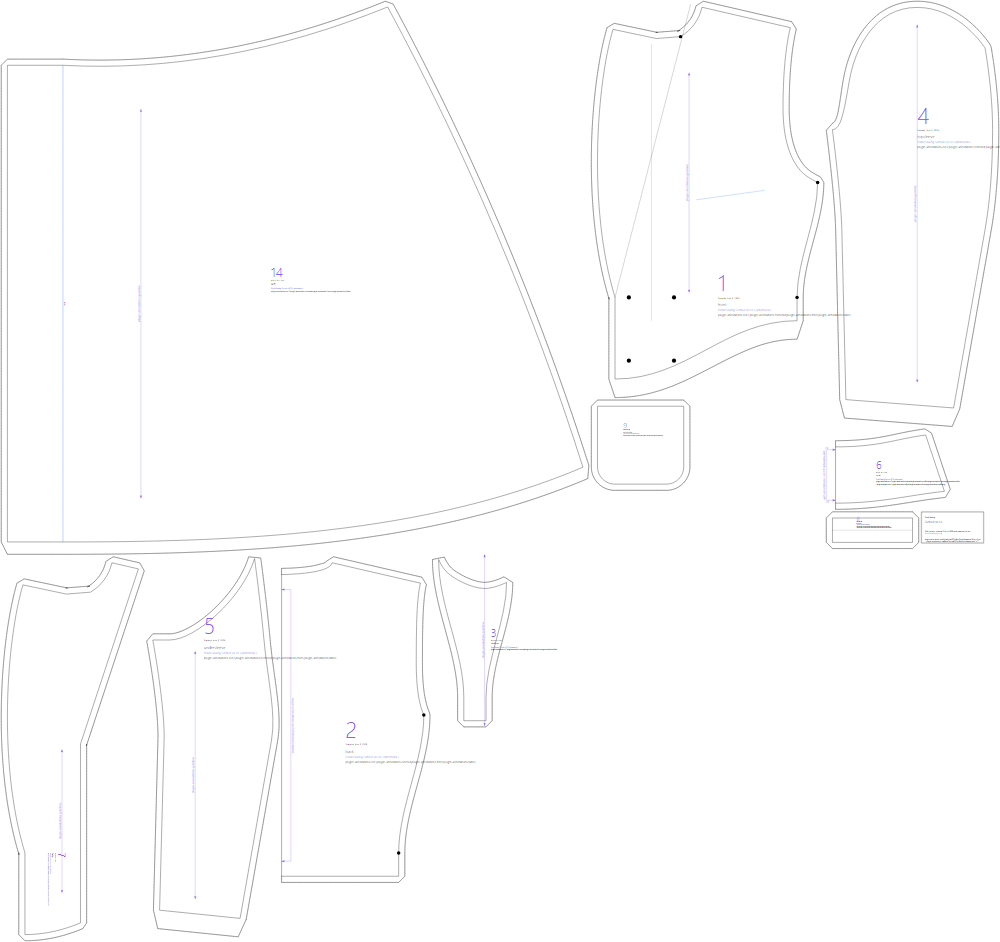
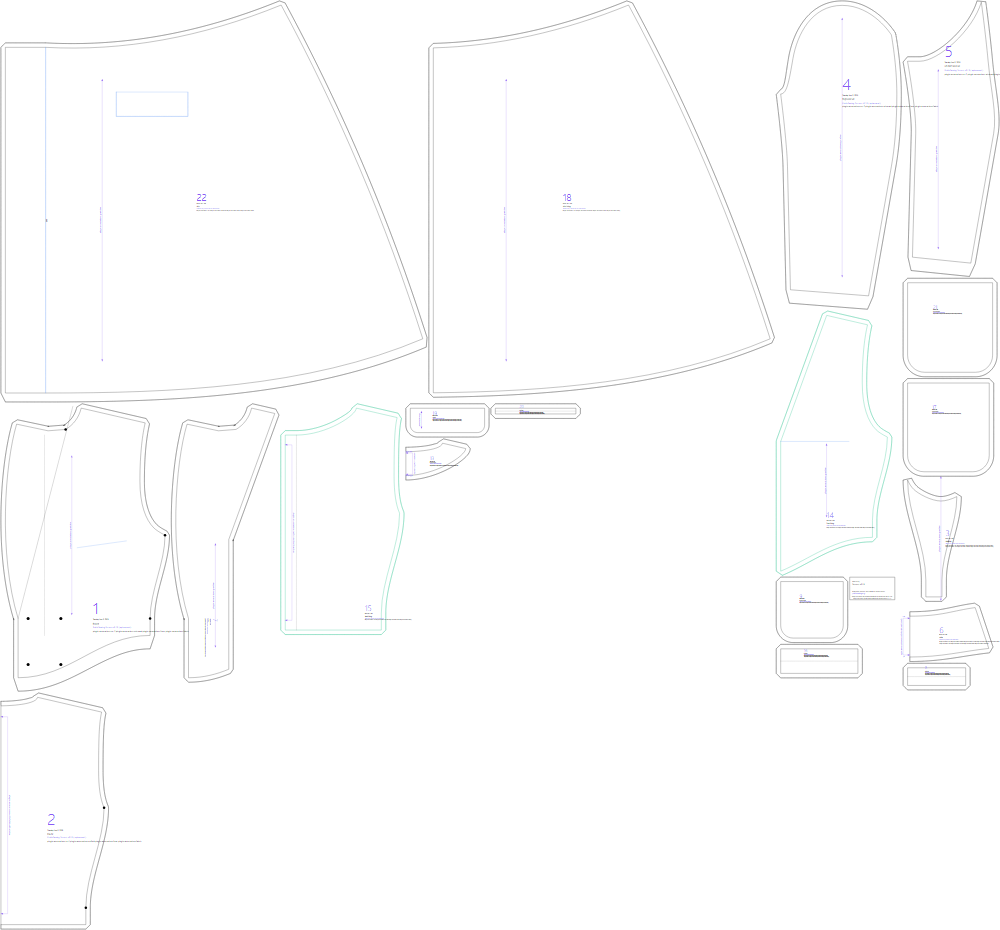
Dolman cape's back darts; pockets and a lining for the surtout
The dolman's back takes its extra length in a shoulder dart and small darts on the arm curve, as
Pivnick's Figures 4 and 6, each kept small, in place of one large dart. The surtout gains set-in flap
pockets on the skirt and a lining, the skirt's cut from the facing's inner edge.

diff --git a/designs/SPEC.md b/designs/SPEC.md
@@ -41,7 +41,7 @@ waistband or fly shield; its size goes to `trousers.strips.<piece>`),
 `polygon` (a straight-edged piece from its corners: `points` a list of [x, y] expressions, `allowance` per edge in seam allowances, `fold` the index of the edge on the fold, `notches`, `buttons`, `buttonholes`, `lines` (marks), `let` values first, `cut`, `material`, `label`; its edges' lengths go to `polygon.<piece>`),
 `suitPiece` (a flat-cut suit's `piece`: `sleeve`, `armGusset`, `crotchGusset`, `facing`, `band`, `breastPocket`, `lowerPocket`, sized by `suitBody`),
 `gore` (a gored skirt's gore from `skirtLayout`: `index` 0 is the front panel, on the fold; a gore past the design's count is left out; `zip` an expression, the CB zip's length, notched on the last gore; `pleat: { style, hip, hem, if }`, a pleat underlay below the seat line, `hip`/`hem` mm wide, on the gore's CB edge (`side`) or both edges (`box`, never the CF fold), the gore's edge marked as the fold),
-`body3Skirt` (a skirt in one piece on a body3 body cut off above the seat line, which `lengthBelowWaist` does: `length`, `lean`, `round`, `facing`; store `blouse.skirt`),
+`body3Skirt` (a skirt in one piece on a body3 body cut off above the seat line, which `lengthBelowWaist` does: `length`, `lean`, `round`, `facing`; `pocketLen`, `pocketBelow`, `pocketAt`, `pocketFlap`, a set-in flap pocket for `flap`, `welt` and `weltBag` pieces; `lining: true`, the same from the facing's inner edge; store `blouse.skirt`),
 `circular` (a circular skirt's `which: front` or `back` from `circularLayout`; `zip` an expression, notched on the back's CB; store `skirt.seams.<which>`),
 `frontLining` and `backLining` (a Brian coat's lining, `from` the front or the back; the back
 takes `width:`, its back-neck facing's, and `pleat:`; `sleeve` takes `lining:` too, and
@@ -85,7 +85,7 @@ type's `if:` is an expression over options; when it is false the piece is left o
 | `boxLayout` | A box body on the same bases (`jacketBase` with `style: box`): back and front, side seams flared from the armholes, the bust dart pivoted into the front neck, lap, lapel, gorge. Optional: `patch: { <id>: { x, y, w, h, shape, topHem, flap } }`, patch pockets from CF and the waist (to `coat.pockets`, for the `pocket` and `flap` pieces), kept clear of the armhole, side seam and hem; `rows`, as `jacketLayout`'s. | `lib/jacket.mjs` |
 | `jacketLayout`'s `kimono` | `{ length, hem, depth, angleBack, angleFront }`: the sleeve cut in one with the side back and side front, no armhole; the hem shared so the underarm seams match. Store: `jacket.kimono`. Drop the two-part sleeve pieces. | `lib/jacket.mjs` |
 | `capeBase`, `capeLayout` | A cape (`which`; `length`, `drop`, `gap`, `pivotLess`, `seamDrop`, `flare`, `lap`, `facing`): the block's neck and shoulder laid out as a quarter circle. Store: `cape.layout`, `cape.seams`, `coat.back.neck`, `coat.front.neck`. With the `cape` piece type (`which: front`, `back` or `whole`; `count`, `spacing` its buttons). | `lib/cape.mjs` |
-| `dolmanLayout` | A dolman cape on `jacketBase`'s raw front and back (`seat`, `hipDepth`, `length`, `arm`, `hip`, `lap`, `facing`, `dartLen`), for the `cape` pieces. | `lib/cape.mjs` |
+| `dolmanLayout` | A dolman cape on `jacketBase`'s raw front and back (`seat`, `hipDepth`, `length`, `arm`, `hip`, `lap`, `facing`, `shoulderMax`, `curveMax`, `dartLen`), for the `cape` pieces. | `lib/cape.mjs` |
 | `gatheredLeg` | A full leg gathered into a band, elastic waist, on Titan; with `hem` (a depth), no band: a plain hem turned up at `hemY - hem`. | `lib/trousers.mjs` |
 | `trouserLeg` | A tailored leg on Titan (`which: back` or `front`, `fitKnee` on): a waist dart (`dart`, `dartAt`, `dartLength`, `dartFrom: centre` to take it from Titan's CB shaping), the hem narrowed (`hemWidth`) and curved (`hemSag`), or cuff bottoms (`turnUp`, the depth), a fly (`fly`, `flyLength`), a side pocket (`pocketTop`, `pocketLength`, `pocketWidth`, `pocketDepth`), a jetted back pocket (`backPocket`, `backPocketBelow`, `backPocketWelt`); `matchOutseam` trues its outseam to the other leg's. Breeches (with `cuffBelow`): a thigh flare at the outseam (`thighFlare`, `thighAt`), fitted below the knee to `calfW` and `cuffW` round (`calfBelow`, `cuffBelow` under the knee; `share`, this piece's part), an opening at the lower outseam (`openingBelow`, `buttons`, `buttonInset`), moved toward the front from the knee down by `openingShift` (both legs) so it runs down the shin. `pleats`, `pleatSpacing` (front): the dart laid as pleats at a straight waist (with `dartLength: 0`). `straightOutseam`: the outseam a straight line out past the seat, for a `legInOne` leg; the paths go to `trousers.paths.<which>`. Store: `trousers.back` / `trousers.front`, `trousers.pockets`. | `lib/trousers.mjs` |
 | `skirtLayout` | A gored skirt on Sarah's base (`gores`, odd; three is Mitchell's two-piece skirt, with `panelShare` the front's share of the half hip; `panelNarrowing`, `cbShaping`, `panelShaping` for five gores, less with more; `flare`; `frontDrop`): the gores laid on the seat line, the waist shaping as darts on the seams, the same flare at every seam edge. Store: `skirt.gores`, `skirt.count`, `skirt.waist`; the `gore` pieces add `skirt.seams`. | `lib/skirt.mjs` |

diff --git a/designs/README.md b/designs/README.md
@@ -60,13 +60,13 @@ without declaring them, so they are listed in our package.json.
 | `womens-peacoat/` | Women's peacoat: the tailored jacket double-breasted (a 4" lap, two rows of three buttons), hip length, Merz's storm collar (buttoned to the neck; notched or peaked lapels as options), hip flap pockets, lined, Merz 1911 Diagram XXI. [BRIEF.md](womens-peacoat/BRIEF.md) | draft (not sewn) | not draped |
 | `field-jacket/` | Women's field jacket: the box coat at hip length, small lapels, five buttons on CF, four flapped patch pockets, Merz 1911 Diagram XX. [BRIEF.md](field-jacket/BRIEF.md) | draft (not sewn) | not draped |
 | `overcoat/` | Single-breasted overcoat to below the knee: the peacoat's notched lapel, collar, vent, pockets and lining with a single-breasted front, drafted two sizes up, Simons 1916 pp. 6–7. [BRIEF.md](overcoat/BRIEF.md) | draft (not sewn) | not draped |
-| `surtout/` | Surtout: the suit jacket's three-piece body cut off at a high waist, double-breasted, on one flared skirt, Simons 1916 pp. 38-39. [BRIEF.md](surtout/BRIEF.md) | draft (not sewn) | not draped |
+| `surtout/` | Surtout: the suit jacket's three-piece body cut off at a high waist, double-breasted, on one flared skirt with flap pockets, lined, Simons 1916 pp. 38-39. [BRIEF.md](surtout/BRIEF.md) | draft (not sewn) | not draped |
 | `box-overcoat/` | Loose, straight single-breasted overcoat flared to a 66" sweep: the overcoat three sizes up, Simons 1916 pp. 14–15. [BRIEF.md](box-overcoat/BRIEF.md) | draft (not sewn) | not draped |
 | `ulster/` | Long double-breasted ulster-collar overcoat: the peacoat at 50" and four sizes up, Simons 1916 pp. 28–30. [BRIEF.md](ulster/BRIEF.md) | draft (not sewn) | not draped |
 | `balmacaan/` | Loose raglan-sleeved overcoat: the overcoat four sizes up with the mackinaw's two-piece raglan sleeves and military collar, buttoned to the throat, flared to a 66" sweep, Simons 1916 pp. 32–35. [BRIEF.md](balmacaan/BRIEF.md) | draft (not sewn) | not draped |
 | `mantle/` | Loose overcoat: the balmacaan two sizes up with the armhole 3" lower, a convertible collar, three buttons, flapped patch pockets, no vent, Simons 1916 pp. 36–37 (the back cut in one with the sleeve isn't built). [BRIEF.md](mantle/BRIEF.md) | draft (not sewn) | not draped |
 | `cape/` | Cape (any size): a quarter circle on the shoulders, two pieces with a flared seam or one with a shoulder dart, a collar and a folded-back facing, Mitchell 1921 pp. 58-59. [BRIEF.md](cape/BRIEF.md) | draft (not sewn) | not draped |
-| `dolman-cape/` | Dolman cape: Breanna's body with the shoulder run out and curved over the arm into a straight side seam, a bust dart, a dart on the arm curve, Pivnick 1949 ch. XIX. [BRIEF.md](dolman-cape/BRIEF.md) | draft (not sewn) | not draped |
+| `dolman-cape/` | Dolman cape: Breanna's body with the shoulder run out and curved over the arm into a straight side seam, a bust dart, small darts on the back, Pivnick 1949 ch. XIX. [BRIEF.md](dolman-cape/BRIEF.md) | draft (not sewn) | not draped |
 | `peacoat/` | Hip-length double-breasted coat: the mackinaw with Simons' D.B. overcoat stand, three-button rows, notched lapel and deep ulster collar, slanted hand-warmer welt pockets, back vent and lining, no belt, on Brian, Simons 1916. [BRIEF.md](peacoat/BRIEF.md) | draft (not sewn) |
 | `womens-box-coat/` | Women's loose box coat: straight body flared from the arms, shaped CB seam, neck dart, notched lapel, collar, buttons near the lapped edge, set-in flap pockets (hip and ticket), two-piece sleeves, on Breanna, Mitchell 1921. [BRIEF.md](womens-box-coat/BRIEF.md) | draft (not sewn) | OK, 2026-10-26 |
 | `girls-coat/` | Girls' coat: the box coat at Sheifer's proportions, to below the knee, a 2½" lap, four buttons, hip flap pockets 3" below the waist, for any size, Sheifer 1908. [BRIEF.md](girls-coat/BRIEF.md) | draft (not sewn) | not draped |

diff --git a/designs/surtout/BRIEF.md b/designs/surtout/BRIEF.md
@@ -39,19 +39,23 @@ sleeve. Added for this coat: a body cut off above the seat line, buttons in two 
 - **The ¼ in Vee at 20 isn't drafted.**
 - **The CF hem** is set from the back seam and the fall, a little shorter at the front than his: compare in a muslin.
 - **Skirt facing:** cut on and folded back (ours). The body's is the suit jacket's.
-- **No pockets in the skirt, no lining, no vent, no sleeve vent**: the book gives none, though a real coat would want pockets and a lining.
+- **Skirt pockets and the lining are ours.** The book draws neither, but a real coat wants both. A set-in flap pocket each side of the skirt: `skirtPocketWidth` 16% of the chest (6 in of 38), its
+  level mouth `skirtPocketBelow` 38% of waist to seat below the waist seam, `skirtPocketAt` 30% of the way along. The lining as the suit jacket's: front and back linings on a back-neck facing, side body and
+  sleeves cut again, an inside breast pocket; and the skirt cut again from the facing's inner edge. Both can be turned off.
+- **No vent or sleeve vent:** none drawn.
 - **Fit:** Simons draws a young man's coat. Children's and stout sizes draft, but it's a young man's cut.
 
 ## Pieces
-Front, back (fold), side body (cut 2 each but the back), skirt (cut 2), facing, collar, top and under sleeves, breast welt and bag.
+Front, back (fold), side body (cut 2 each but the back), skirt (cut 2), facing, back-neck facing, collar, top and under sleeves, breast welt and bag, skirt pocket flap, welt and bag. In lining: front, back, side body, sleeves, skirt, inside pocket.
 
 ## Construction
-1. Breast welts. Back, side bodies and fronts together.
+1. Breast welts. Back, side bodies and fronts together. Skirt pockets, flaps hanging from the mouths.
 2. Skirt's CB seam, then the skirt to the body, matching CB, each panel's seams and the front edge. Fold the skirt's facing back.
 3. Facing, collar, lapels.
 4. Shoulders, sleeves.
-5. Hem, buttons and buttonholes.
+5. Make the lining up the same way, skirt to body at the waist; set it in round the facings and at the cuffs.
+6. Hem, buttons and buttonholes.
 
 ## Checks
 `test/surtout.test.mjs`: every size, the default, long, plain, and a wider stand and skirt. Seams between the panels, shoulders, collar, sleeve cap, the skirt's
-top against the body's bottom, the buttons and the break.
+top against the body's bottom, the buttons and the break, the pocket on the skirt with its bag above the hem, the lining's pieces.

diff --git a/designs/dolman-cape/BRIEF.md b/designs/dolman-cape/BRIEF.md
@@ -31,10 +31,10 @@ are Pivnick's.
 
 ## Changes and what isn't modelled
 - **Breanna in place of her lining.** Same pieces of information, a different draft, so the numbers are hers but the shoulders aren't.
-- **One arm dart, not several small ones.** The back's seam above the notch comes out longer than the front's, about 45 mm at a women's 36, too much to
-  ease. All of it goes in one dart on the back's arm curve, ours in place of her row of small ones. It's a large dart: sewing it as two or
-  three is a fair change, and worth trying in a muslin.
-- **No back shoulder dart:** Breanna's back has none there; hers does.
+- **The back's darts.** Hers has a shoulder dart (Figure 4), and if the back's shoulder is longer she eases it or stitches small darts along the curve (Figure 6). Here the back's seam
+  above the notch comes out longer than the front's by about 57 mm at a women's 36, up to 90 at the smallest women's and a man's 38: too much to ease. So a shoulder dart takes the first
+  `dolmanShoulderDart` 2% of the chest, and small darts on the curve take the rest, as many as keep each to `dolmanCurveDart` 1.8%, at most four. The sizes are ours. I tried moving the side seam's
+  arm point instead (the curve gains what the seam below loses, so it does little) and closing Breanna's waist dart into the shoulder (it makes the difference worse).
 - **The hem** is square at each side seam and level at the centres, not ruled from hem to hem.
 - **The closure, collar and facing are ours**, as on the cape. She doesn't give them. No arm slits, which she doesn't draft.
 - **Sizes:** "for all sizes" becomes a share of the figure, so children's capes aren't over-wide.
@@ -43,11 +43,11 @@ are Pivnick's.
 Front (cut 2), back (fold), collar.
 
 ## Construction
-1. Bust darts, the arm darts.
+1. Bust darts; the back's shoulder and curve darts.
 2. Shoulder and side seams in one, from the neck to the hem, matching the notches.
 3. Fold the facing back. Collar to the neck, with the facing's top.
 4. Hem, buttonholes, buttons.
 
 ## Checks
 `test/dolman-cape.test.mjs`: every size, the default, long, short with no hip extension, and wide. Side seams above and below the
-notch, the bust dart's legs, the collar, the hem past the seat.
+notch with the back's darts sewn, each dart small, the bust dart's legs, the collar, the hem past the seat.

diff --git a/site/illustrations/PROMPTS.md b/site/illustrations/PROMPTS.md
@@ -842,15 +842,15 @@ wide ones get cropped. No mannequin, hand, head or handwriting showing. A second
 ### surtout: Surtout
 > **A seam all round at a high waist, the coat fitted above it and a flared skirt below: exactly four buttons in two rows of two, at and just below that seam.** A men's **surtout**, a fitted
 > double-breasted overcoat, in plain dark wool (navy or charcoal), the skirt to **above the knee**. **Wide notched lapels** rolling to the first button. Narrow shoulders. Fine seams from the
-> armholes to the waist. **One small welt on the left breast.** The skirt plain and flaring, no pockets. Plain two-piece sleeves, no cuff buttons. Shown flat on an invisible form, front view.
+> armholes to the waist. **One small welt on the left breast.** The skirt plain and flaring, with **one level flap pocket each side**. Plain two-piece sleeves, no cuff buttons. Shown flat on an invisible form, front view.
 >
-> Leave out: pocket flaps, a belt, a velvet collar, cuff buttons, tails, a long frock coat, a shirt and tie, a person.
+> Leave out: a belt, a velvet collar, cuff buttons, tails, a long frock coat, a shirt and tie, a person.
 
 ### surtout.long: Surtout, long
 > **A seam all round at a high waist, the coat fitted above it and a long flared skirt below, to below the knee.** The same men's double-breasted surtout in plain dark wool, four buttons in two rows of two, notched
-> lapels, one small welt on the left breast. Shown flat on an invisible form, front view.
+> lapels, one small welt on the left breast, one level flap pocket each side of the skirt. Shown flat on an invisible form, front view.
 >
-> Leave out: pocket flaps, a belt, a velvet collar, cuff buttons, tails, a shirt and tie, a person.
+> Leave out: a belt, a velvet collar, cuff buttons, tails, a shirt and tie, a person.
 
 *Current image has five buttons; the pattern has four.*
 
